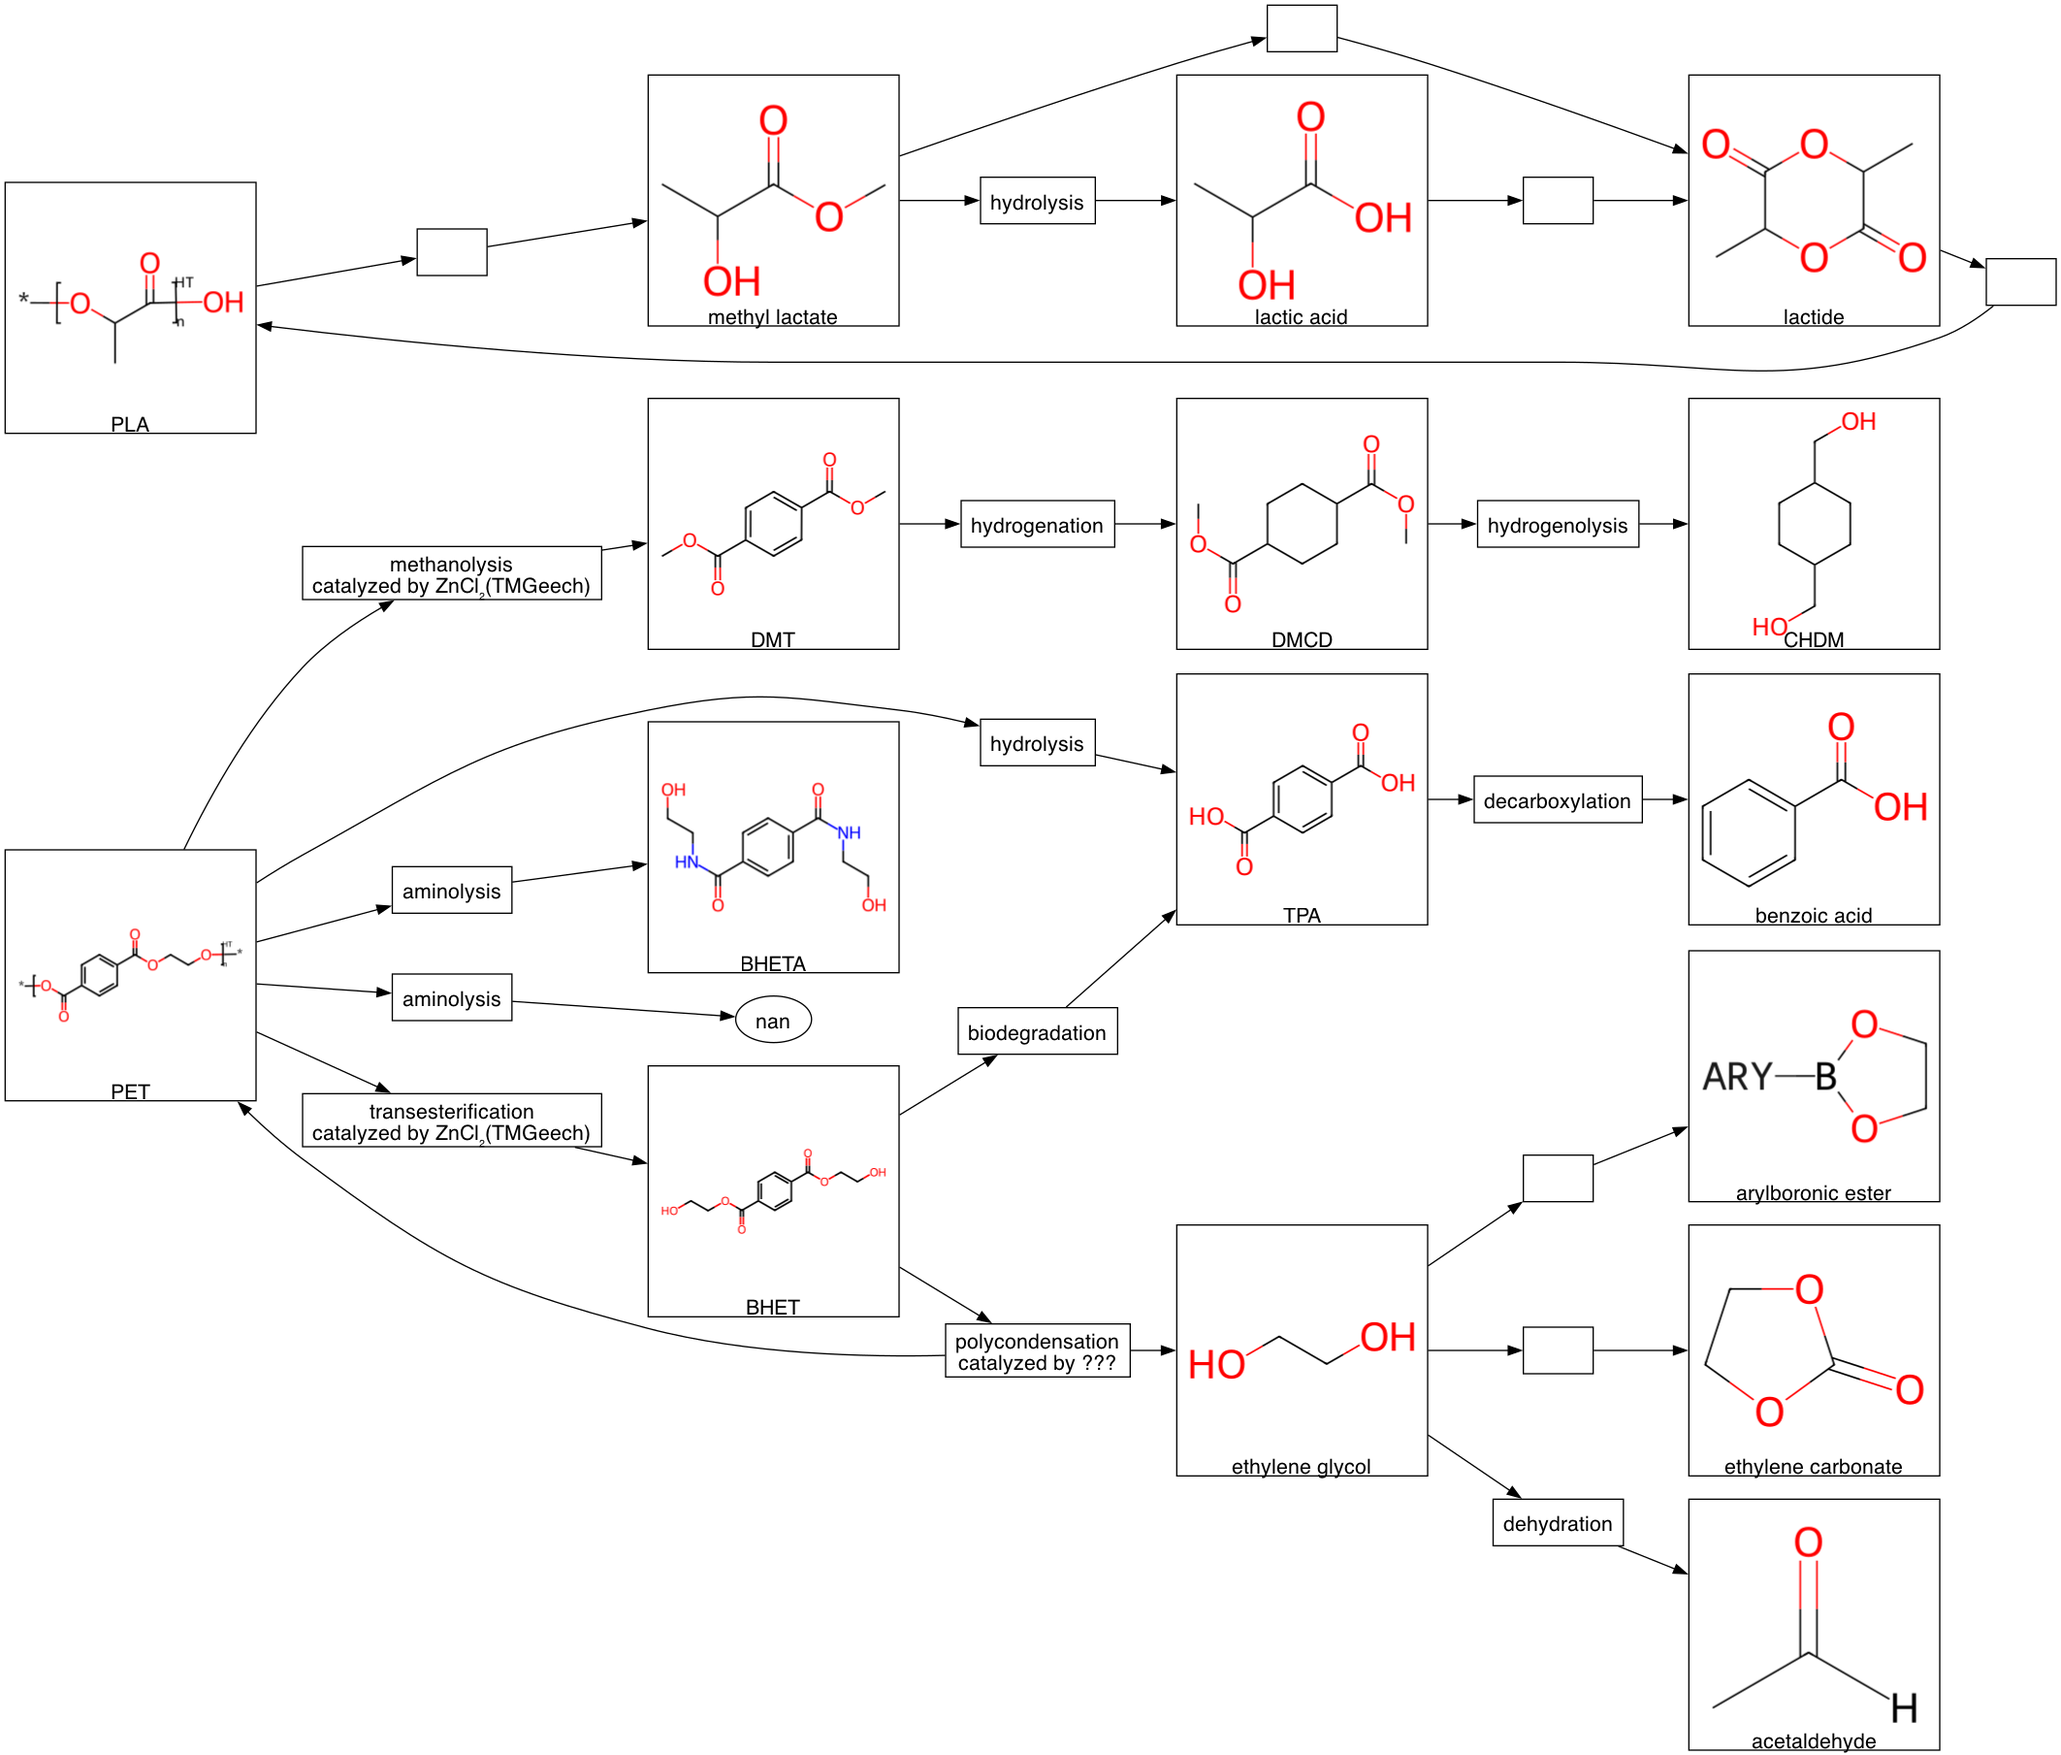
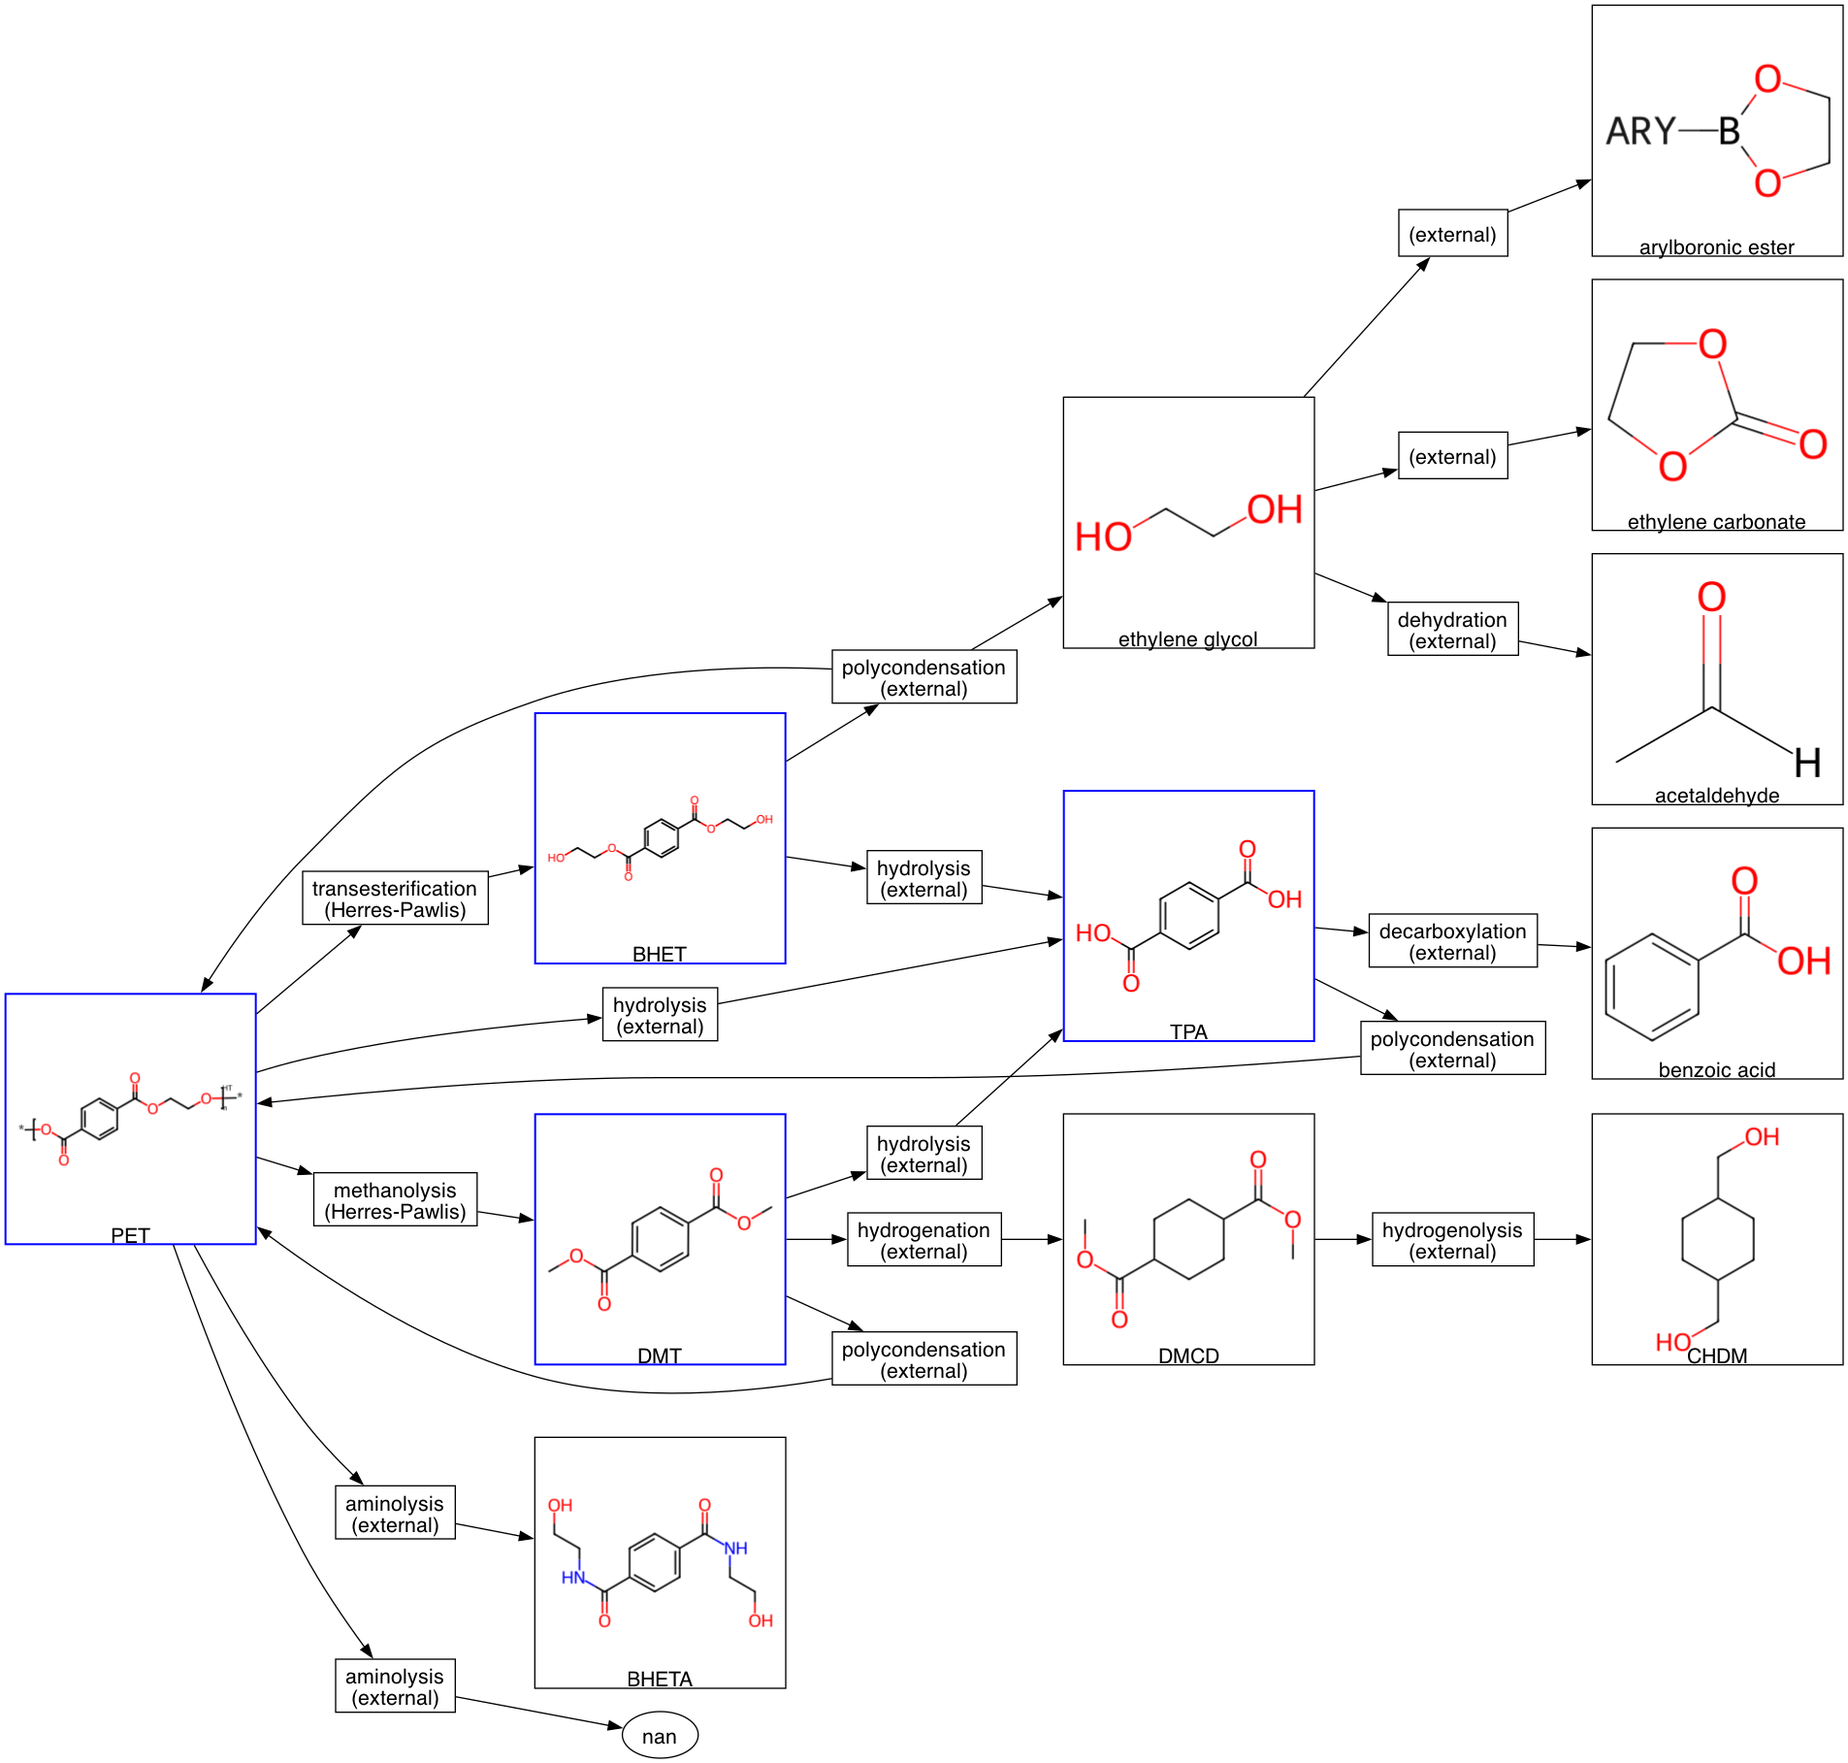
Update reactions

diff --git a/draw.py b/draw.py
@@ -10,6 +10,8 @@
 
 """Create a diagram with the reaction network."""
 
+from collections import defaultdict
+
 import pandas as pd
 from pathlib import Path
 from pystow.utils import download
@@ -19,13 +21,31 @@ import cairosvg
 HERE = Path(__file__).parent.resolve()
 IMG = HERE.joinpath("img")
 OUT = HERE.joinpath("graph.png")
+REACTIONS_PATH = HERE.joinpath("reactions.tsv")
+CONDITIONS_PATH = HERE.joinpath("conditions.tsv")
+LABS_PATH = HERE.joinpath("labs.tsv")
+
+HIGHLIGHT = {
+    "CHEBI:53259",  # PET
+    "CHEBI:231672",  # BHET
+    "CHEBI:156286",  # DMT
+    "CHEBI:15702",  # TPA
+}
 
 
 def main(add_reagent: bool = False) -> None:
-    df = pd.read_csv(
-        HERE.joinpath("reactions.tsv"),
-        sep="\t",
-    )
+    reactions_df = pd.read_csv(REACTIONS_PATH, sep="\t")
+    reactions_df = reactions_df[reactions_df["kingdom"] == "PET"]
+
+    conditions_df = pd.read_csv(CONDITIONS_PATH, sep="\t")
+    labs_df = pd.read_csv(LABS_PATH, sep="\t")
+    lab_id_to_name = {
+        group_id: professor.split(" ", maxsplit=1)[1]
+        for group_id, professor in labs_df[["group", "Professor"]].values
+    }
+    reaction_to_group_names = defaultdict(set)
+    for reaction, group in conditions_df[["reaction", "group"]].values:
+        reaction_to_group_names[reaction].add(lab_id_to_name[group])
 
     graph = pgv.AGraph(directed=True)
     graph.graph_attr["rankdir"] = "LR"
@@ -43,9 +63,8 @@ def main(add_reagent: bool = False) -> None:
             ["output", "output name"],
             ["output 2", "output 2 name"],
             ["reagent", "reagent name"],
-            ["catalyst", "catalyst name"],
         ]
-        for curie, name in df[pairs].values
+        for curie, name in reactions_df[pairs].values
         if pd.notna(curie)
     }
 
@@ -53,7 +72,7 @@ def main(add_reagent: bool = False) -> None:
     if add_reagent:
         keep.append("reagent")
 
-    add_node_for = {curie for curies in df[keep].values for curie in curies}
+    add_node_for = {curie for curies in reactions_df[keep].values for curie in curies}
 
     imgs = {}
     for chebi_curie, name in chebi_curies.items():
@@ -82,28 +101,38 @@ def main(add_reagent: bool = False) -> None:
                 # imagescale="true",
                 # imagepos="tc",
             )
+            if chebi_curie in HIGHLIGHT:
+                node_attrs.update(
+                    color="blue"  # border color
+                )
             graph.add_node(chebi_curie, **node_attrs)
 
-    r = 1
-    for inp, out, reagent, out2, catalyst, typen in df[
-        ["input", "output", "reagent", "output 2", "catalyst name", "type name"]
+    for (
+        reaction_id,
+        reactant_1,
+        reactant_2,
+        product_1,
+        product_2,
+        reaction_type,
+    ) in reactions_df[
+        ["reaction", "input", "reagent", "output", "output 2", "type name"]
     ].values:
         label_parts = []
-        if pd.notna(typen):
-            label_parts.append(typen)
-        if pd.notna(catalyst):
-            label_parts.append(f"catalyzed by {catalyst}")
-
+        if pd.notna(reaction_type):
+            label_parts.append(reaction_type)
+        if groups := reaction_to_group_names.get(reaction_id):
+            label_parts.append("(" + ",".join(sorted(groups)) + ")")
+        else:
+            label_parts.append("(external)")
         label = "\n".join(label_parts)
 
-        graph.add_node(r, label=label, shape="box")
-        graph.add_edge(inp, r)
-        graph.add_edge(r, out)
-        if add_reagent and pd.notna(reagent):
-            graph.add_edge(reagent, r)
-        if pd.notna(out2):
-            graph.add_edge(r, out2)
-        r += 1
+        graph.add_node(reaction_id, label=label, shape="box")
+        graph.add_edge(reactant_1, reaction_id)
+        graph.add_edge(reaction_id, product_1)
+        if add_reagent and pd.notna(reactant_2):
+            graph.add_edge(reactant_2, reaction_id)
+        if pd.notna(product_2):
+            graph.add_edge(reaction_id, product_2)
 
     graph.draw(OUT, prog="dot")
 
